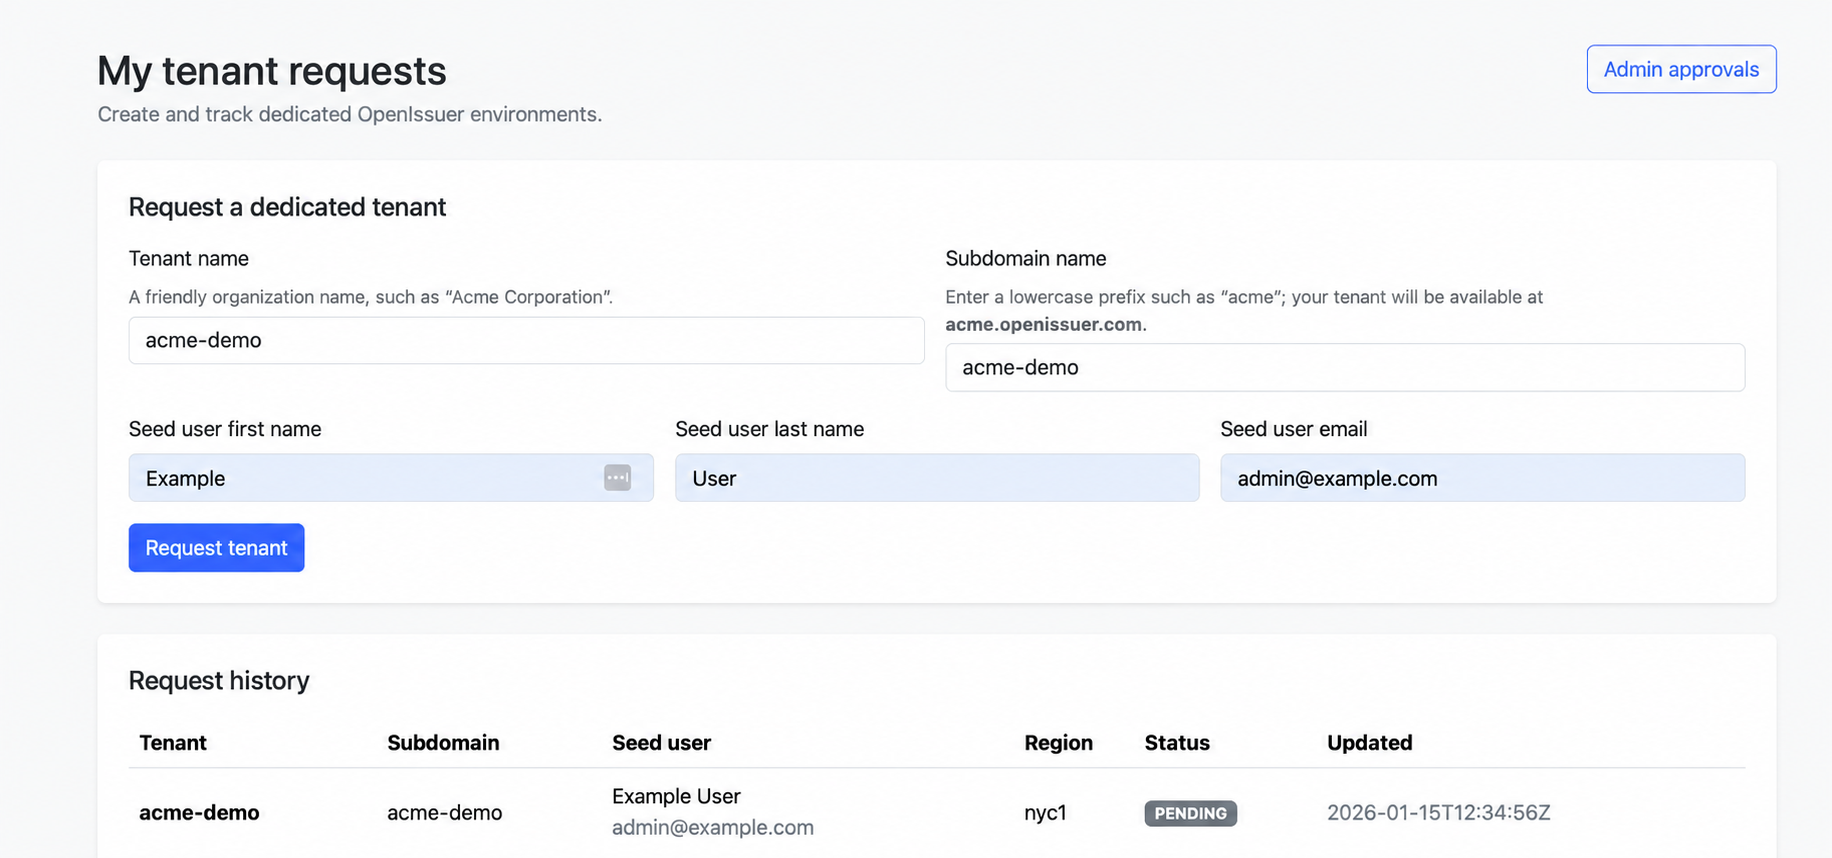
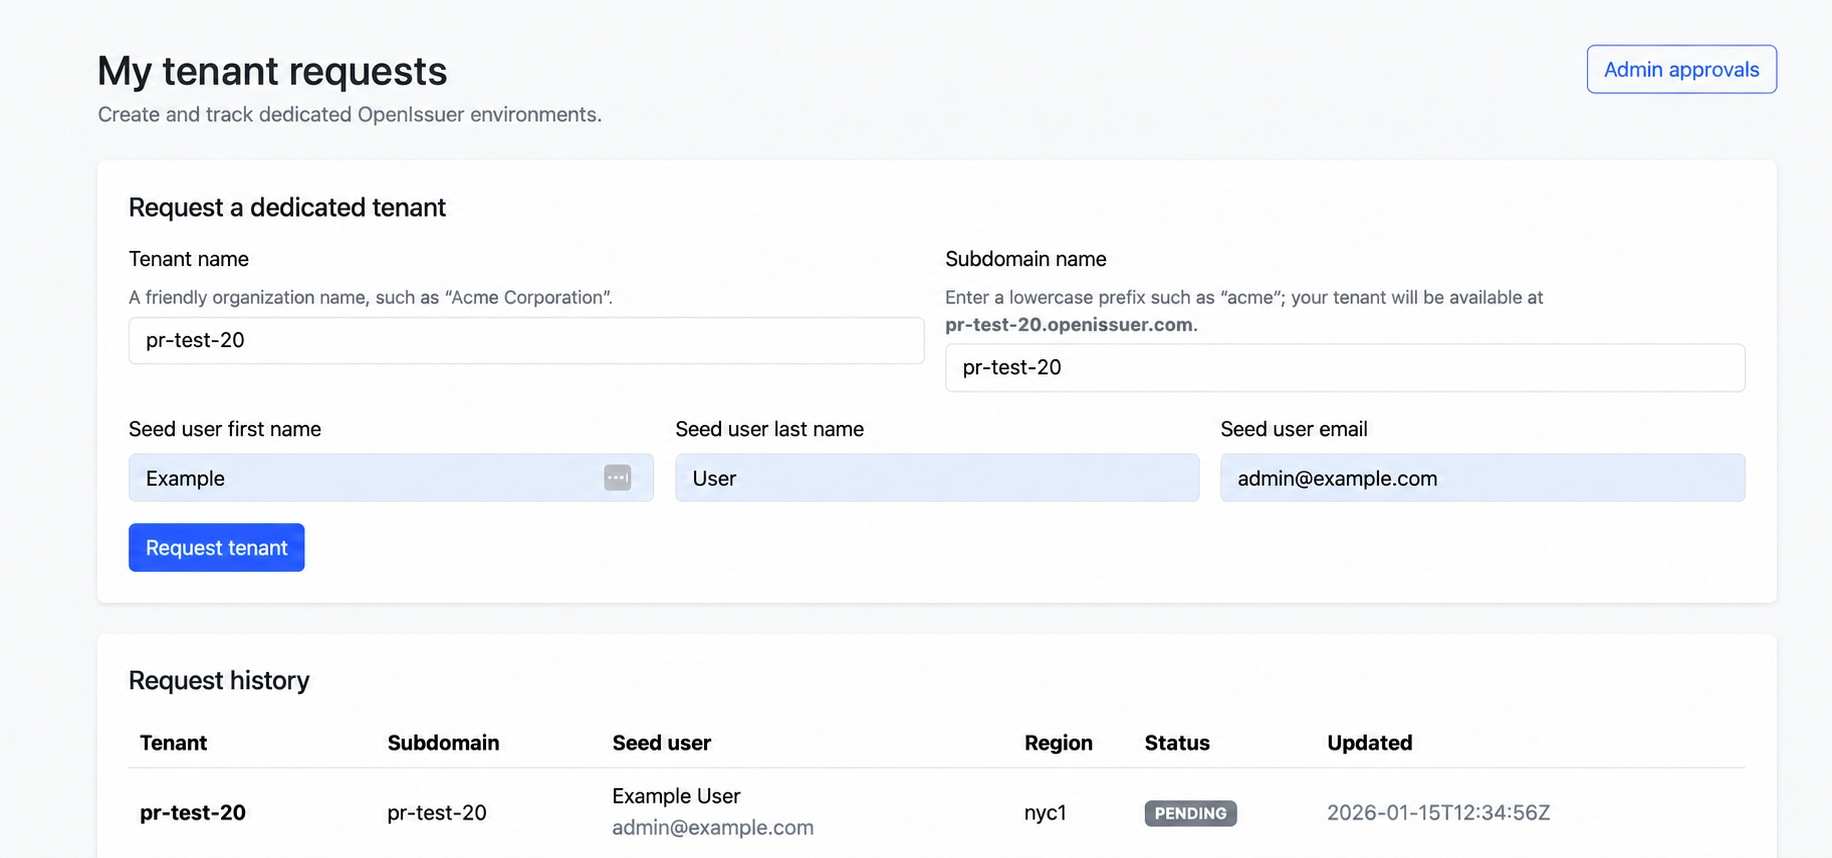
Show sanitized tenant approval example

diff --git a/pages/tenant-provisioning.tsx b/pages/tenant-provisioning.tsx
@@ -79,7 +79,32 @@ export default function TenantProvisioning() {
               />
               <figcaption>
                 <strong>Submit the request</strong>
-                Your request appears in request history after submission.
+                Your request appears in request history after submission. For this example,
+                the generated admin URL is{' '}
+                <code>https://pr-test-20.admin.openissuer.com</code>.
+              </figcaption>
+            </figure>
+          </section>
+
+          <section className={styles.screenshotSection} aria-labelledby="admin-review">
+            <p className={styles.eyebrow}>Platform administration</p>
+            <h2 id="admin-review">Review the request</h2>
+            <p>
+              A platform administrator reviews the request in the approvals view before
+              provisioning begins. The example below uses <code>pr-test-20</code>; seed
+              first and last names are redacted.
+            </p>
+            <figure className={styles.screenshotStep}>
+              <img
+                className={styles.tenantRequestScreenshot}
+                src="/docs/tenant-approval-dashboard.png"
+                alt="Sanitized tenant approvals view showing pr-test-20 with redacted seed names"
+                width="1436"
+                height="1095"
+              />
+              <figcaption>
+                <strong>Approve or cancel</strong>
+                Requests are grouped by requester, with status and pagination controls for review.
               </figcaption>
             </figure>
           </section>
